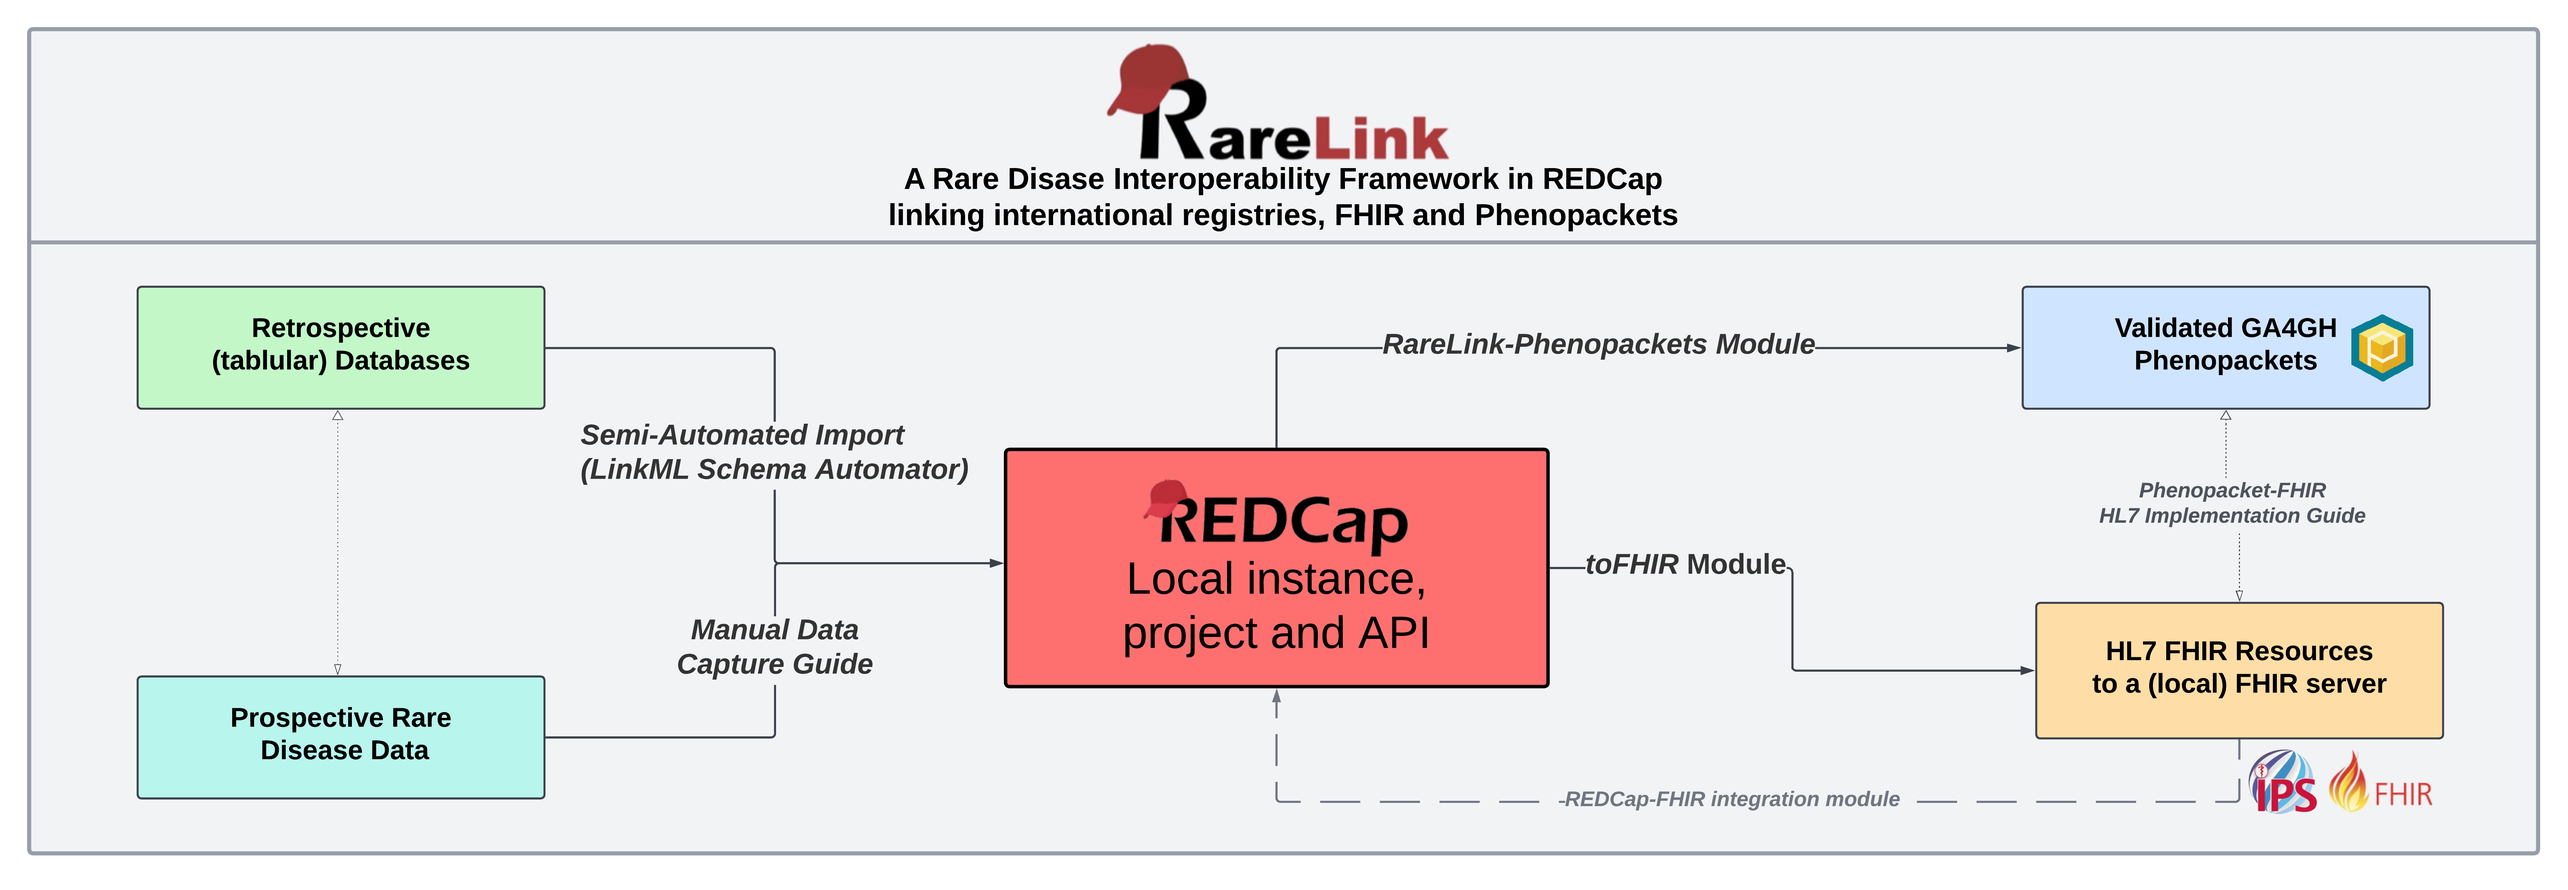
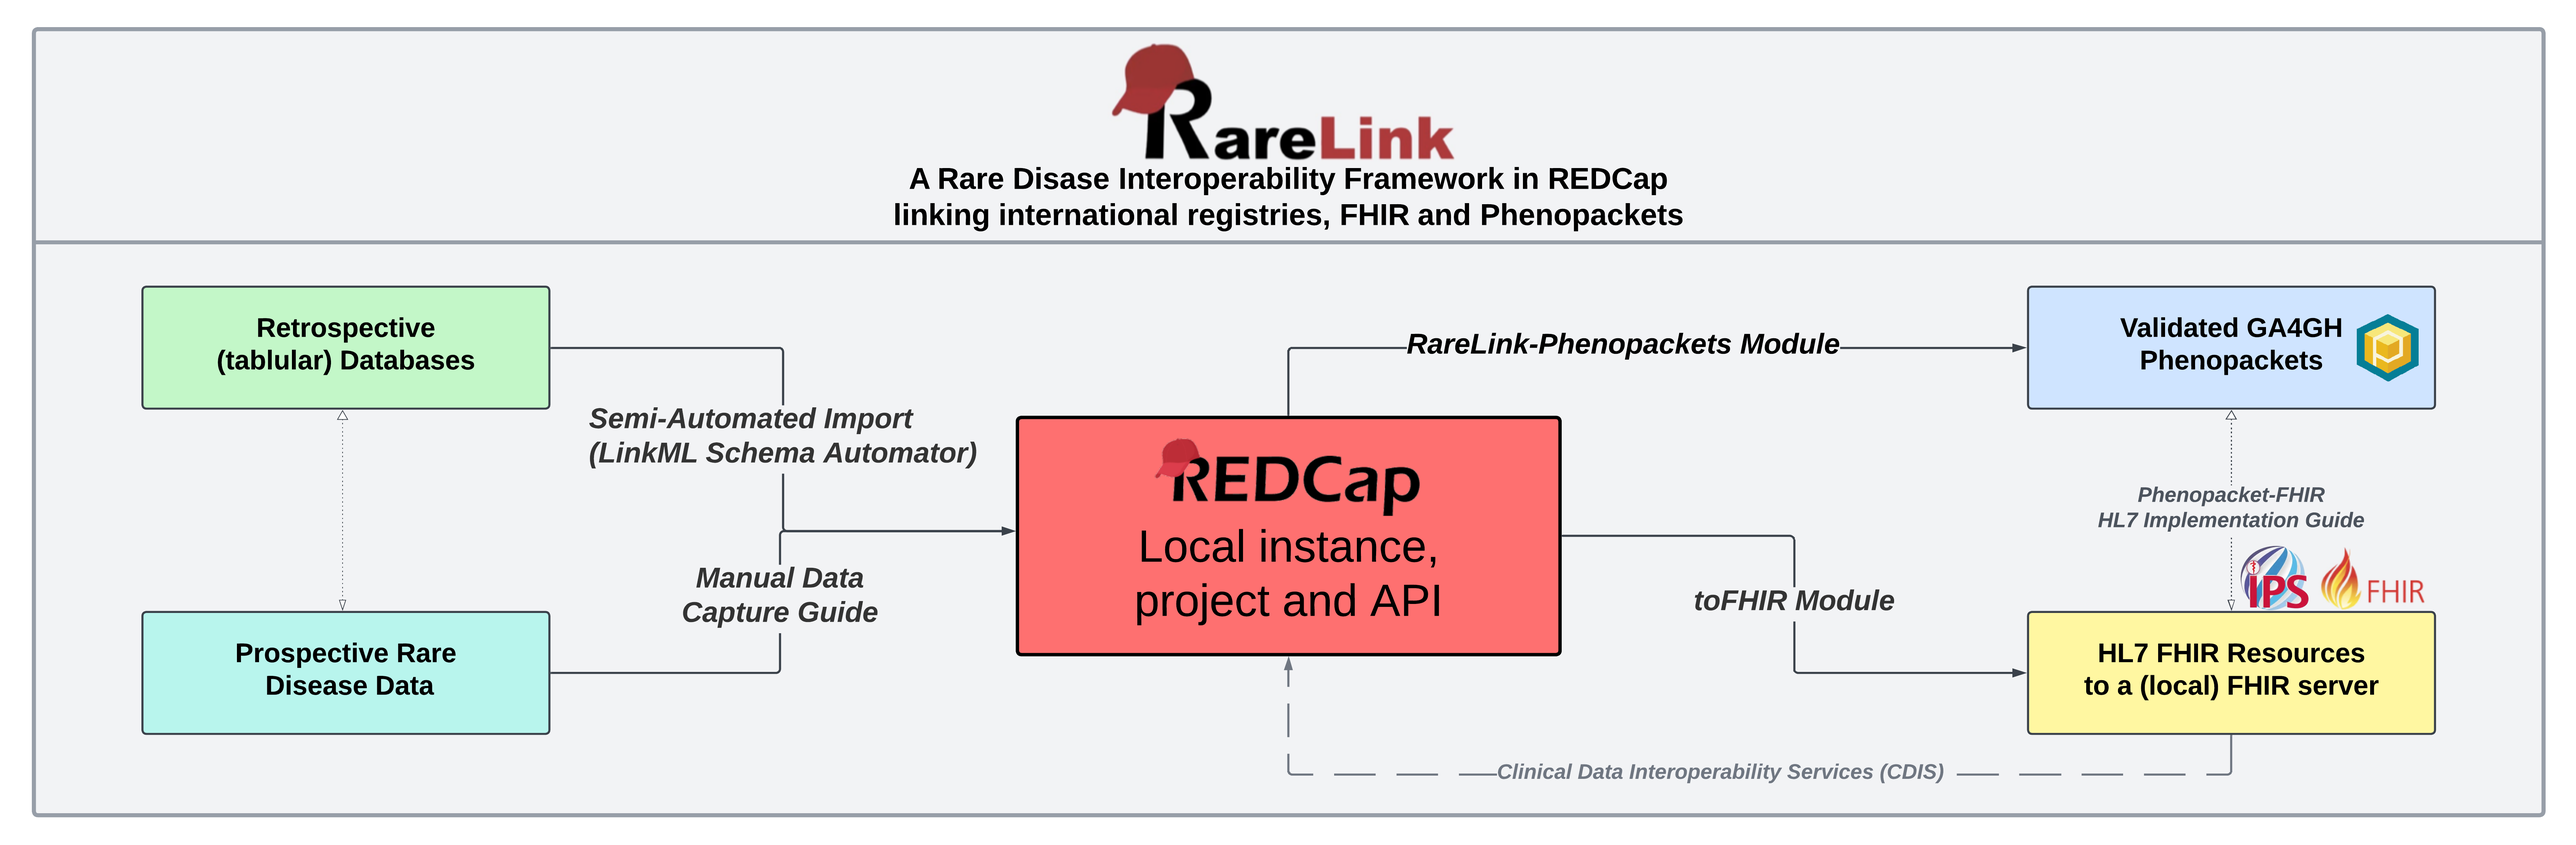
111 revise fhir (#119)
* updated figure and zenondo

* updated command

* added workflow

* del

* still need fix of new workflow

* update

* fix

* fix

diff --git a/src/rarelink/cli/fhir/hapi_server.py b/src/rarelink/cli/fhir/hapi_server.py
@@ -8,6 +8,7 @@ from rarelink.cli.utils.string_utils import (
     success_text,
     error_text,
     format_header,
+    format_command,
     hint_text
 )
 
@@ -62,8 +63,7 @@ def hapi_server():
     ).stdout.strip()
 
     if existing_containers == container_name:
-        typer.secho("✅ A HAPI FHIR server container already exists.",
-                    fg=typer.colors.GREEN)
+        typer.secho("NOTE: A HAPI FHIR server container already exists.")
         # Check if the container is running
         running_containers = subprocess.run(
             ["docker", "ps", "--filter", f"name={container_name}",
@@ -72,15 +72,26 @@ def hapi_server():
             text=True,
         ).stdout.strip()
         if running_containers == container_name:
-            success_text("✅ HAPI FHIR server is already running at "
-                         "http://localhost:8080.")
+            success_text(f"✅ HAPI FHIR server is already running at \
+http://hapi-fhir:8080/fhir - use this URL for \
+{format_command('rarelink fhir setup')}.")
+            typer.echo("HINT: To fetch data, e.g. via postman, use the URL "
+"http://localhost:8080/fhir/.")
+            typer.secho(f"To stop the server, run \
+{format_command('docker stop hapi-fhir')}.")
+            
         else:
             typer.secho(
                 "🔄 Restarting the existing HAPI FHIR server container...",
                         fg=typer.colors.YELLOW)
             subprocess.run(["docker", "start", container_name], check=True)
-            success_text("✅ HAPI FHIR server is now running at "
-                         "http://localhost:8080.")
+            success_text(f"✅ HAPI FHIR server is already running at \
+http://hapi-fhir:8080/fhir - use this URL for \
+{format_command('rarelink fhir setup')}.")
+            typer.echo("HINT: To fetch data, e.g. via postman, use the URL "
+"http://localhost:8080/fhir/.")
+            typer.secho(f"To stop the server, run \
+{format_command('docker stop hapi-fhir')}.")
         return
 
     # Start a new HAPI FHIR server container
@@ -93,7 +104,13 @@ def hapi_server():
             ],
             check=True,
         )
-        success_text("✅ HAPI FHIR server is running at http://localhost:8080.")
+        success_text(f"✅ HAPI FHIR server is already running at \
+http://hapi-fhir:8080/fhir - use this URL when running \
+{format_command('rarelink fhir setup')}.")
+        typer.echo("HINT: To fetch data, e.g. via postman, use the URL "
+"http://localhost:8080/fhir/.")
+        typer.secho(f"To stop the server, run \
+ {format_command('docker stop hapi-fhir')}.")
         hint_text(
             "⚠ Data is stored inside the Docker container. Ensure the container "
             "is not removed to preserve data."

diff --git a/src/rarelink/cli/fhir/setup.py b/src/rarelink/cli/fhir/setup.py
@@ -41,7 +41,7 @@ def setup():
     if not ENV_PATH.exists():
         typer.secho(
             error_text(
-                f"❌ .env file not found. Please run {format_command('rarelink setup api-keys')} first to generate the required API keys."
+                f"❌ .env file not found. Please run {format_command('rarelink setup keys')} first to generate the required API keys."
             ),
             fg=typer.colors.RED,
         )
@@ -55,7 +55,7 @@ def setup():
     except Exception as e:
         typer.secho(
             error_text(
-                f"❌ Validation failed: {str(e)}. Please fix the .env file or rerun {format_command('rarelink setup api-keys')}."
+                f"❌ Validation failed: {str(e)}. Please fix the .env file or rerun {format_command('rarelink setup keys')}."
             ),
             fg=typer.colors.RED,
         )

diff --git a/docs/index.rst b/docs/index.rst
@@ -5,7 +5,7 @@ Welcome to the RareLink REDCap Documentation!
     :target: https://rarelink.readthedocs.io/en/latest/?badge=latest
     :alt: Documentation Status
 
-.. warning:: 
+.. attention:: 
    RareLink v2.0.0.dev0 is under development. Please :ref:`12` us before using
    it to ensure you have the latest updates and guidance.
 
@@ -14,22 +14,26 @@ RareLink is a novel framework designed for managing and processing rare disease
 worldwide, yet data quality and scarcity pose significant challenges in research 
 and clinical care. RareLink aims to standardize and streamline RD data management 
 around REDCap by providing a structured project setup that ensures consistency 
-across data collection instruments, variables, and data dictionaries. This setup
-allows the linkage and export to data the standards HL7 FHIR and the 
-GA4GH Phenopacket Schema. In the following you will find detailed information on
-the RareLink framework, including its background, components, installation 
-instructions, user guide, and full examples. 
+across data collection instruments, variables, and data dictionaries. RareLink 
+has integrated the `ontology-based rare disease common data model (RD-CDM) <https://github.com/BIH-CEI/rd-cdm>`_ 
+into its core, allowing its linkage and preconifgured export to data the 
+standards HL7 FHIR and the GA4GH Phenopacket Schema. In the following you will 
+find detailed information on the RareLink framework, including its background, 
+components, installation instructions, user guide, and full examples. 
+
+________________________________________________________________________________
 
 .. image:: _static/res/rarelink_overview.png
    :alt: RareLink Overview
    :align: center
 
-.. tip::
-    GitHub Repository: https://github.com/BIH-CEI/RareLink
+________________________________________________________________________________
 
-.. attention::
-    The manuscript for the RareLink REDCap framework is currently being revised 
-    for submission.
+- **GitHub Repository:** https://github.com/BIH-CEI/RareLink
+- Note: The manuscript is currently being prepared for submission. A preprint
+  will be available soon.
+
+________________________________________________________________________________
 
 The documentation is structured as follows:
 
@@ -57,6 +61,8 @@ Sections
 10) :doc:`10_license`
 11) :doc:`11_download_manifest`
 
+________________________________________________________________________________
+
 1) Background
 ---------------
 
@@ -68,6 +74,7 @@ Sections
 - :doc:`1_background/1_5_rd_cdm`
 - :doc:`1_background/1_6_redcap`
 
+________________________________________________________________________________
 
 2) RareLink Framework
 ----------------------
@@ -75,6 +82,8 @@ Sections
 - :doc:`2_rarelink_framework/2_1_rarelink_overview`
 - :doc:`2_rarelink_framework/2_2_rarelink_cdm`
 - :doc:`2_rarelink_framework/2_3_rarelink_cli`
+
+________________________________________________________________________________
 
 3) Installation
 -----------------
@@ -94,6 +103,9 @@ Sections
 - :doc:`4_user_guide/4_5_develop_redcap_instruments`
 - :doc:`4_user_guide/4_6_redcap_tools`
 
+________________________________________________________________________________
+
+
 Additional Information
 -----------------------
 - :doc:`5_contributing`
@@ -104,6 +116,8 @@ Additional Information
 - :doc:`10_license`
 - :doc:`11_download_manifest`
 - :doc:`12_contact`
+
+________________________________________________________________________________
 
 .. toctree::
    :caption: Background 

diff --git a/README.md b/README.md
@@ -7,12 +7,18 @@ Rare Disease Interoperability Framework in REDCap linking international
 things are subject to change. Please reach out before implementing or using the 
 software to ensure you have the latest updates and guidance.
 
-
+<!-- RareLink Badges -->
 [![Python CI](https://github.com/BIH-CEI/rarelink/actions/workflows/python_ci.yml/badge.svg)](https://github.com/BIH-CEI/rarelink/actions/workflows/python_ci.yml)
 [![Documentation Status](https://readthedocs.org/projects/rarelink/badge/?version=latest)](https://rarelink.readthedocs.io/en/latest/?badge=latest)
-![Python Versions](https://img.shields.io/badge/python-3.10%20%7C%203.11%20%7C%203.12-blue)
+![Python Versions](https://img.shields.io/badge/python-3.10%20%7C%203.11%20%7C%203.12-blue) 
+[![DOI](https://zenodo.org/badge/832241577.svg)](https://doi.org/10.5281/zenodo.14253810)
 
-[Stable Documentation](https://rarelink.readthedocs.io/en/stable/)  
+<!-- Combined Badges for v2.0.0.dev0 -->
+![v2.0.0.dev0](https://img.shields.io/badge/v2.0.0.dev0:-grey) 
+![Phenopacket Pipeline](https://img.shields.io/badge/Phenopacket%20Pipeline-Running-darkgreen)
+![FHIR Pipeline](https://img.shields.io/badge/FHIR%20Pipeline-Running-darkgreen)
+![RareLink CLI](https://img.shields.io/badge/CLI-Operational-darkblue)
+
 [Latest Documentation](https://rarelink.readthedocs.io/en/latest/) 
 
 ## Table of Contents
